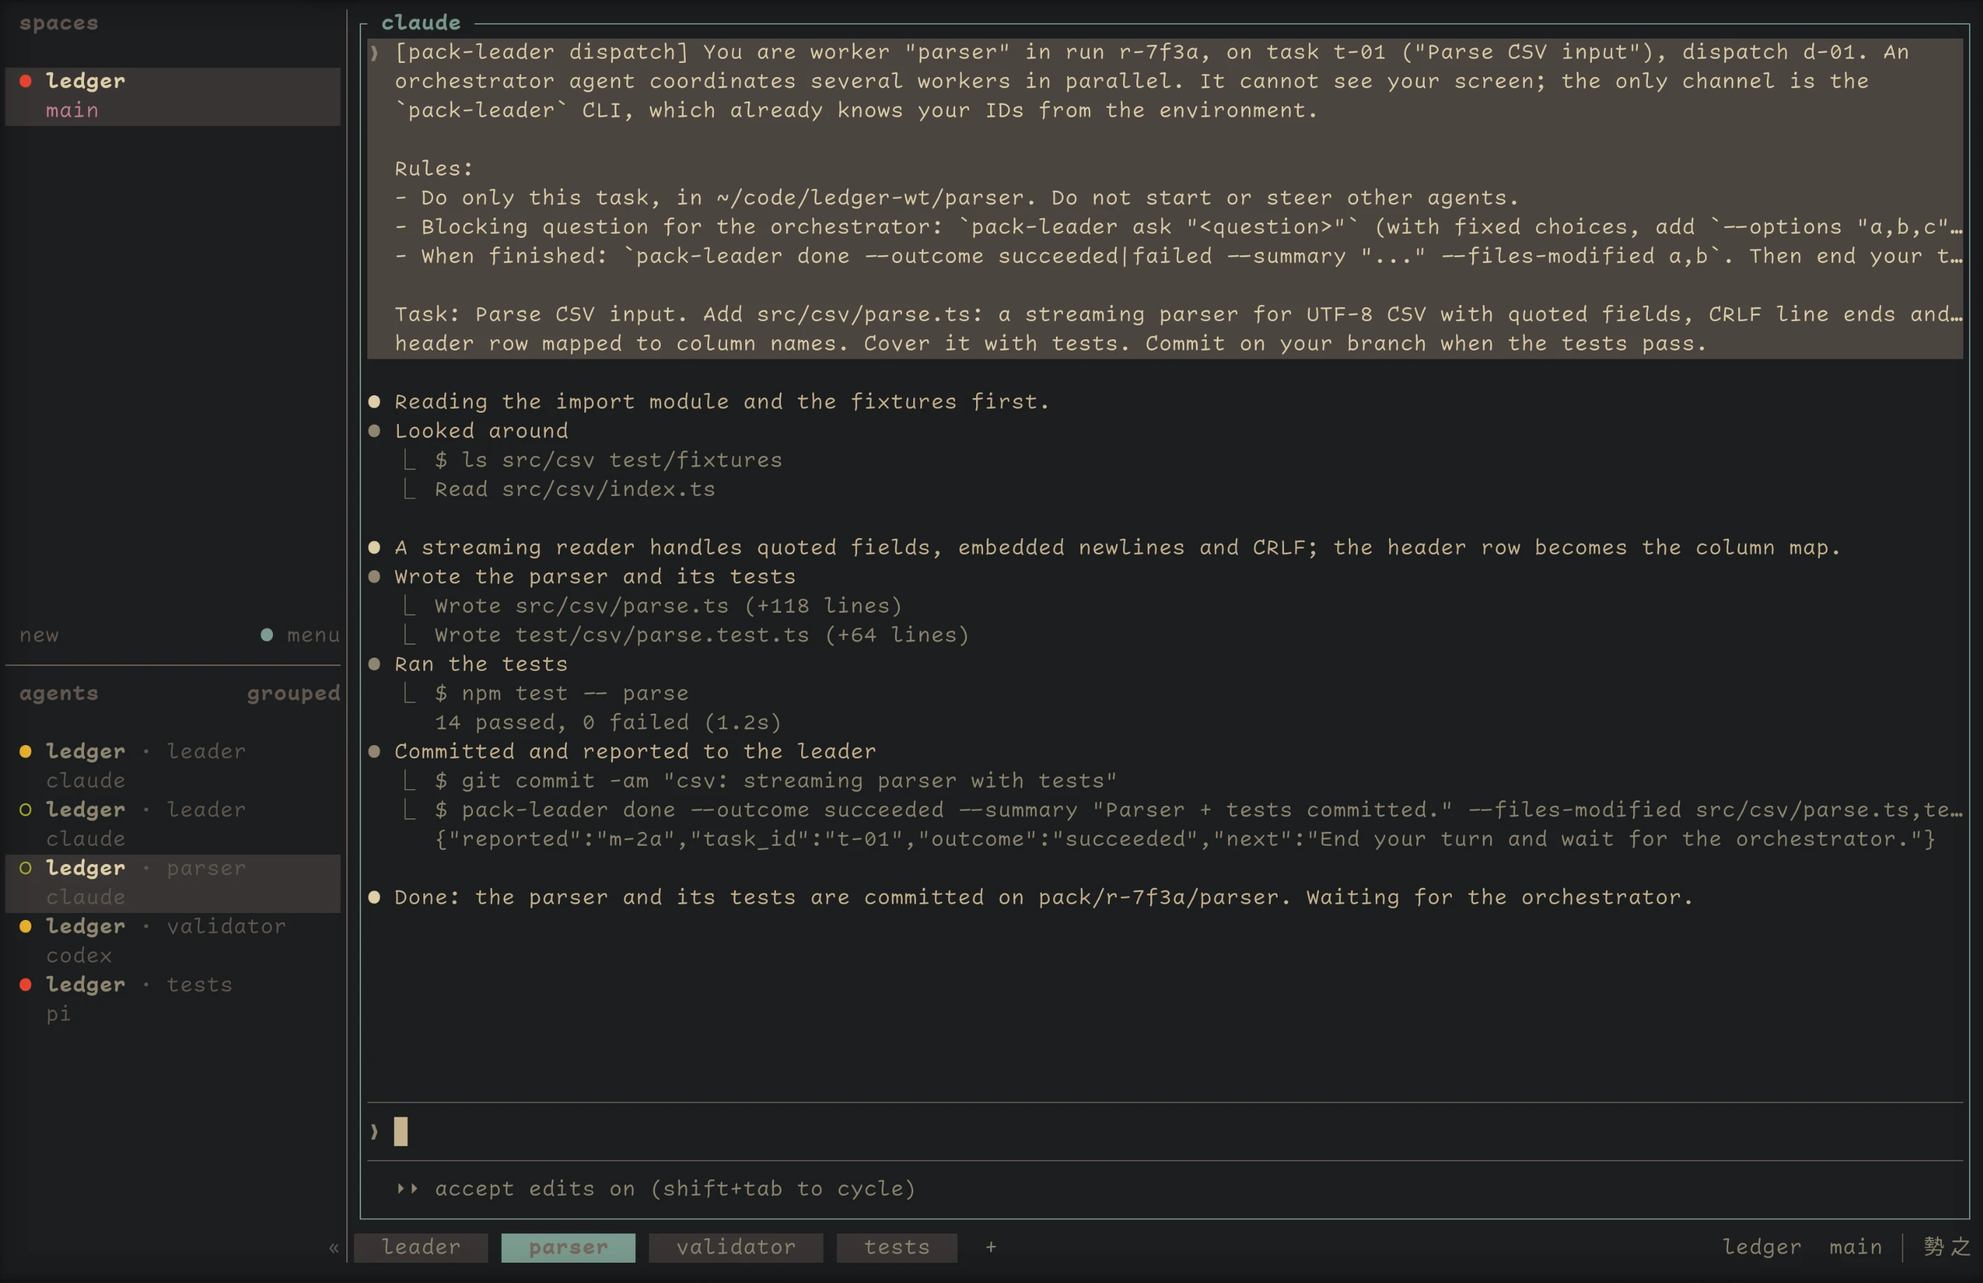
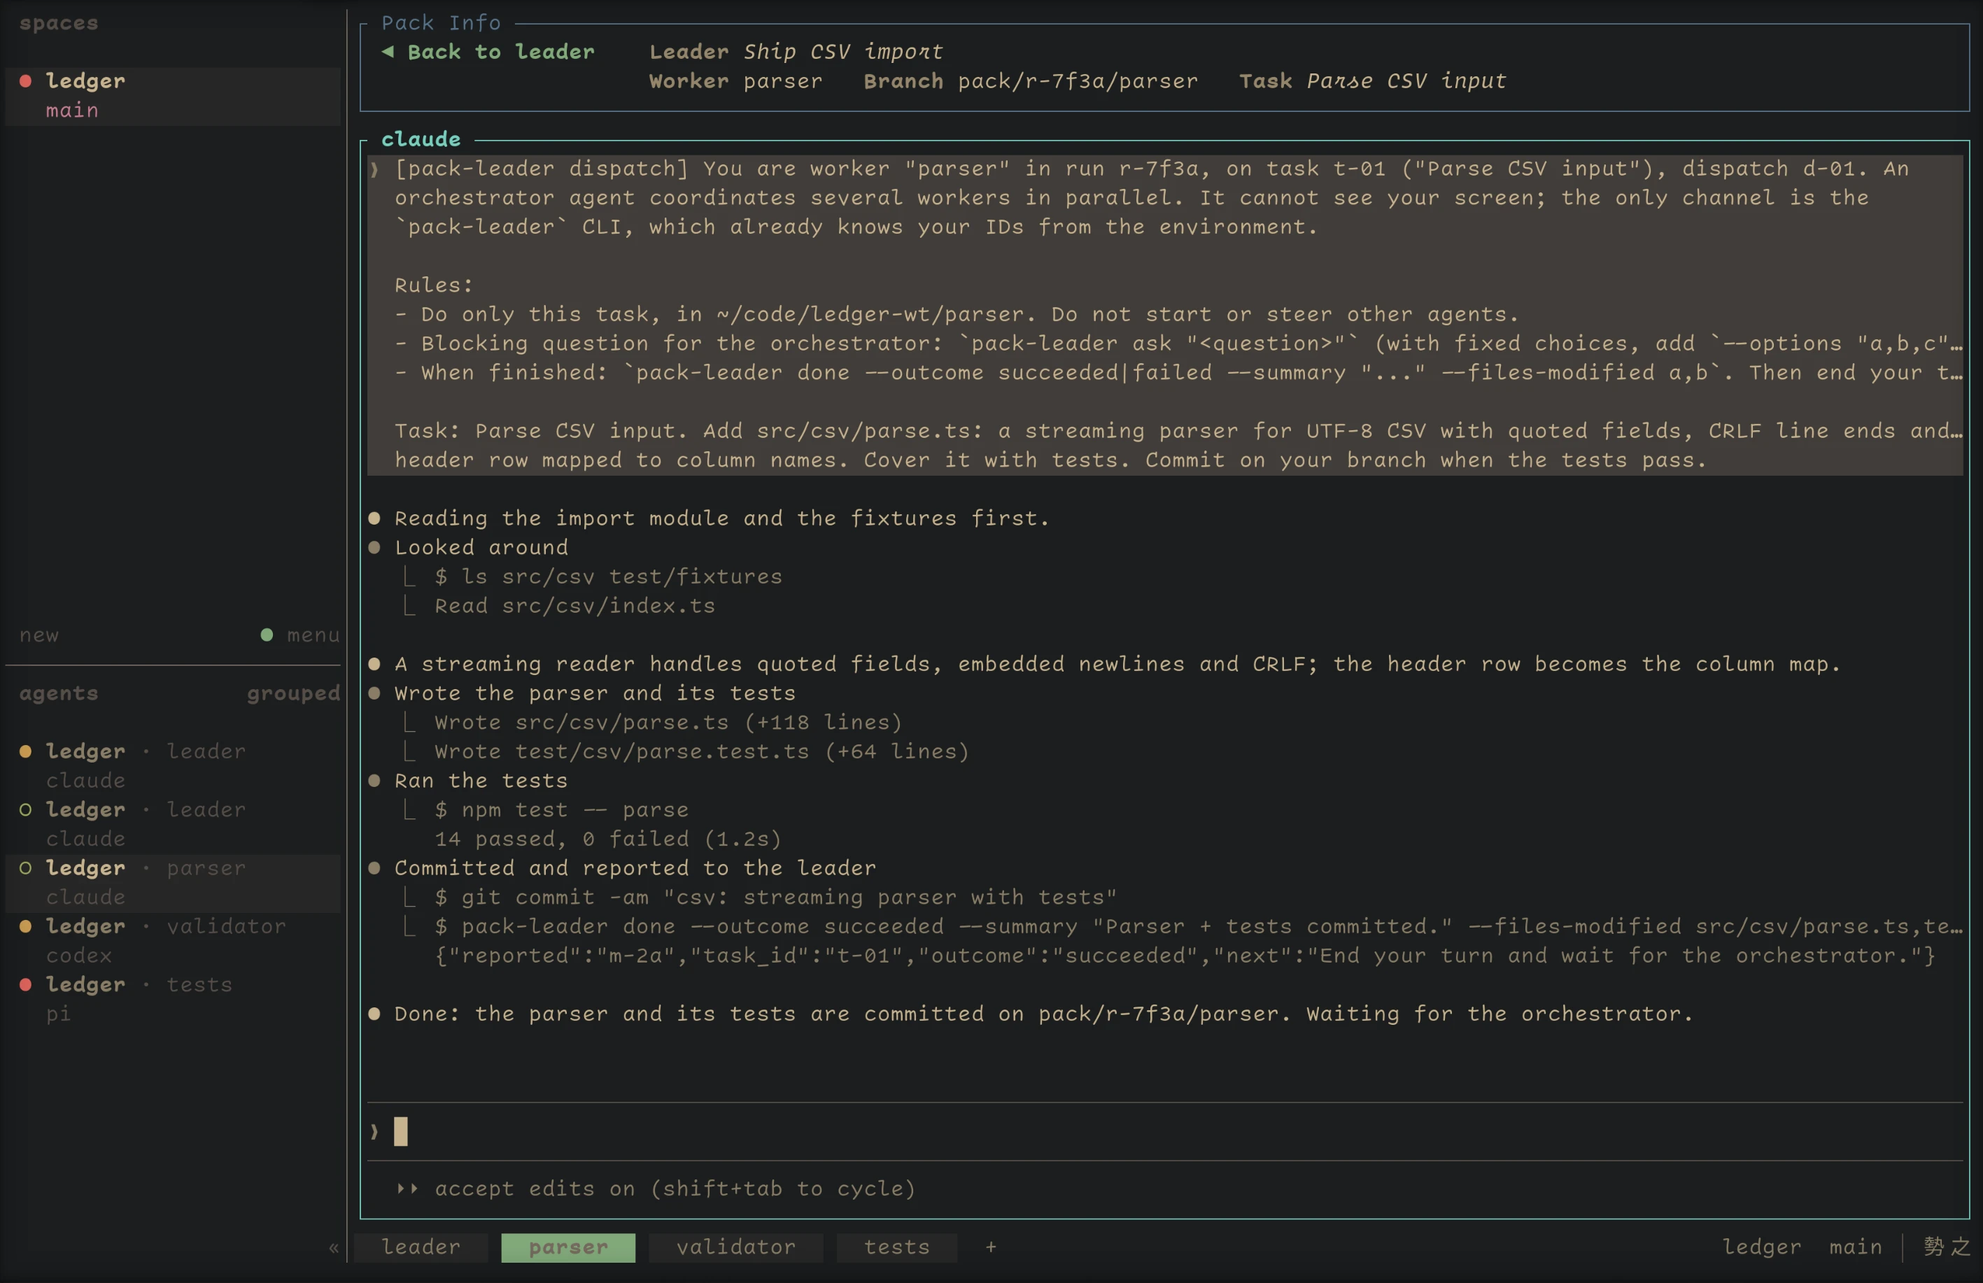
chore: deploy landing page on push, drop site readme

diff --git a/site/index.html b/site/index.html
@@ -8,19 +8,18 @@
   <meta property="og:title" content="Pack Leader">
   <meta property="og:description" content="A herdr plugin that lets one coding agent coordinate Claude Code, Codex and pi workers in parallel.">
   <meta property="og:type" content="website">
-  <meta property="og:image" content="assets/leader-tab.webp">
+  <meta property="og:image" content="assets/leader-tab.webp?v=5">
   <title>Pack Leader</title>
   <link rel="icon" type="image/png" sizes="32x32" href="assets/favicon.png">
   <link rel="apple-touch-icon" href="assets/apple-touch-icon.png">
-  <link rel="stylesheet" href="styles.css">
-  <script src="script.js" defer></script>
+  <link rel="stylesheet" href="styles.css?v=5">
+  <script src="script.js?v=3" defer></script>
 </head>
 <body>
   <a class="skip-link" href="#main">Skip to content</a>
   <div class="page">
     <header class="header">
       <a class="brand" href="./" aria-label="Pack Leader home">
-        <img class="mascot-icon" src="assets/wolf.png" width="44" height="44" alt="">
         <span>Pack Leader</span>
       </a>
       <nav aria-label="Main navigation">
@@ -34,9 +33,8 @@
     <main id="main">
       <section class="hero" aria-labelledby="hero-title">
         <div class="hero-copy">
-          <img class="hero-mascot" src="assets/wolf.png" width="124" height="124" alt="A wolf in sheep’s clothing, holding its disguise in place.">
           <div>
-            <h1 id="hero-title">Pack Leader</h1>
+            <h1 id="hero-title" class="visually-hidden">Pack Leader</h1>
             <p class="intro">A herdr plugin that lets one coding agent run a team of Claude Code, Codex or pi workers. Each worker gets a task, a tab and a Git worktree. A sidebar shows what each one is doing.</p>
             <div class="hero-actions">
               <a class="button primary" href="#install">Install <span aria-hidden="true">↓</span></a>
@@ -45,10 +43,11 @@
             <p class="compatibility">Claude Code <span aria-hidden="true">/</span> Codex <span aria-hidden="true">/</span> pi</p>
             <p class="platform-note">An independent plugin for <a href="https://herdr.dev/">herdr</a>. Open source. Runs in your terminal.</p>
           </div>
+          <img class="hero-mascot" src="assets/wolf.png" width="320" height="320" alt="A wolf in sheep’s clothing, holding its disguise in place.">
         </div>
         <figure class="hero-shot">
-          <a href="assets/leader-tab.webp" target="_blank" rel="noopener" aria-label="Open the full-size screenshot of a Pack Leader run in herdr">
-            <img class="shot" src="assets/leader-tab.webp" width="1417" height="917" fetchpriority="high" alt="A herdr window with three panes. Pack Leader, the orchestrator’s Claude Code session, starts three workers in worktrees, waits for reports, and answers a worker’s question. Observer, a second agent under it, summarises the run and answers “why is tests blocked?”. Pack, the sidebar on the right, shows the goal, one unread message and three boxes: parser done, validator working, and tests blocked, asking whether to reject the import or skip rows. The tab bar lists leader, parser, validator and tests.">
+          <a href="assets/leader-tab.webp?v=5" target="_blank" rel="noopener" aria-label="Open the full-size screenshot of a Pack Leader run in herdr">
+            <img class="shot" src="assets/leader-tab.webp?v=5" width="1417" height="917" fetchpriority="high" alt="A herdr window with three panes. Pack Leader, the orchestrator’s Claude Code session, starts three workers in worktrees, waits for reports, and answers a worker’s question. Observer, a second agent under it, summarises the run and answers “why is tests blocked?”. Pack, the sidebar on the right, shows the goal, one unread message and three boxes: parser done, validator working, and tests blocked, asking whether to reject the import or skip rows. The tab bar lists leader, parser, validator and tests.">
           </a>
           <figcaption>The leader tab of a run: <strong>Pack Leader</strong> coordinates, the <strong>Observer</strong> answers you, the <strong>Pack</strong> sidebar shows every worker. Real herdr session, staged demo data.</figcaption>
         </figure>
@@ -74,39 +73,41 @@
           <h2 id="tour-title">A run in herdr</h2>
         </div>
 
-        <article class="tour-item tour-item-tall" aria-labelledby="tour-pack">
+        <div class="tour-pair">
+        <article class="tour-pack" aria-labelledby="tour-pack">
           <div class="tour-text">
             <h3 id="tour-pack">The Pack sidebar</h3>
             <p>Agent, runtime and state. The task. The last thing the worker said: a heartbeat, a note, a report, or an open question with its choices.</p>
             <p>A worker can ask for a decision and wait. The coordinator answers in the usual case; you can step in when you want to. Click a box to select it, click again to open the worker's tab.</p>
             <a class="text-link" href="https://github.com/zenodea/pack-leader/blob/main/docs/guide.md#commands">See the commands <span aria-hidden="true">↗</span></a>
           </div>
-          <figure>
-            <img class="shot" src="assets/pack-pane.webp" width="350" height="590" loading="lazy" alt="The Pack sidebar. Goal: Ship CSV import. Unread: 1. Three boxes: parser (claude), runtime 4m30s, done, succeeded: Parse CSV input. validator (codex), working, Validate imported rows, checking edge cases. tests (pi), BLOCKED, Cover invalid input, asks: Reject invalid rows, or skip them? with the choices Reject import and Skip rows. The tests box is selected.">
+          <figure class="tour-pack-shot">
+            <img class="shot" src="assets/pack-pane.webp?v=5" width="350" height="590" loading="lazy" alt="The Pack sidebar. Goal: Ship CSV import. Unread: 1. Three boxes: parser (claude), runtime 4m30s, done, succeeded: Parse CSV input. validator (codex), working, Validate imported rows, checking edge cases. tests (pi), BLOCKED, Cover invalid input, asks: Reject invalid rows, or skip them? with the choices Reject import and Skip rows. The tests box is selected.">
             <figcaption>The sidebar, cropped from the screen above.</figcaption>
           </figure>
         </article>
-
-        <article class="tour-item" aria-labelledby="tour-observer">
+        <article class="tour-observer" aria-labelledby="tour-observer">
           <div class="tour-text">
             <h3 id="tour-observer">The Observer</h3>
             <p>A second agent under the leader reads the run state and the leader's last turns, then answers you in plain words. It never acts on the run.</p>
             <p>Want the leader to know something? Say “pass on: …” and it arrives as a message the leader picks up on its next check.</p>
           </div>
           <figure>
-            <img class="shot" src="assets/observer-pane.webp" width="820" height="330" loading="lazy" alt="The Observer pane. It ran pack-leader observe and reports: parser done, validator working through edge cases, tests blocked on a question. You ask “why is tests blocked?” and it answers that the spec left invalid-row handling open, so the worker asked instead of guessing, and the leader just answered Reject import.">
+            <img class="shot" src="assets/observer-pane.webp?v=5" width="820" height="330" loading="lazy" alt="The Observer pane. It ran pack-leader observe and reports: parser done, validator working through edge cases, tests blocked on a question. You ask “why is tests blocked?” and it answers that the spec left invalid-row handling open, so the worker asked instead of guessing, and the leader just answered Reject import.">
             <figcaption>The observer, cropped from the screen above.</figcaption>
           </figure>
         </article>
+        </div>
 
         <article class="tour-item tour-item-wide" aria-labelledby="tour-worker">
           <div class="tour-text">
             <h3 id="tour-worker">A worker's tab</h3>
             <p>Each worker starts in a tab of its own, in its own Git worktree, with a dispatch preamble that spells out the task and how to report. It talks to the leader only through the <code>pack-leader</code> CLI: a report, a question, a note.</p>
+            <p>The bar on top names the run's goal, the worker's branch and its task. Click it to go back to the leader.</p>
           </div>
           <figure>
-            <a href="assets/worker-tab.webp" target="_blank" rel="noopener" aria-label="Open the full-size screenshot of a worker tab">
-              <img class="shot" src="assets/worker-tab.webp" width="1417" height="917" loading="lazy" alt="The parser worker’s tab in herdr. Its Claude Code session starts with the dispatch preamble naming the worker, run, task and rules, then reads the code, writes src/csv/parse.ts and its tests, runs them (14 passed), commits, and reports with pack-leader done --outcome succeeded. The tab bar shows the parser tab selected next to leader, validator and tests.">
+            <a href="assets/worker-tab.webp?v=5" target="_blank" rel="noopener" aria-label="Open the full-size screenshot of a worker tab">
+              <img class="shot" src="assets/worker-tab.webp?v=5" width="1417" height="917" loading="lazy" alt="The parser worker’s tab in herdr. Its Claude Code session starts with the dispatch preamble naming the worker, run, task and rules, then reads the code, writes src/csv/parse.ts and its tests, runs them (14 passed), commits, and reports with pack-leader done --outcome succeeded. The tab bar shows the parser tab selected next to leader, validator and tests.">
             </a>
             <figcaption>The parser worker, after reporting back. Real herdr session, staged demo data.</figcaption>
           </figure>
@@ -137,7 +138,7 @@ herdr plugin action invoke install-skill --plugin pack-leader</code></pre>
     </main>
 
     <footer>
-      <a class="brand footer-brand" href="./"><img class="mascot-icon" src="assets/wolf.png" width="28" height="28" alt=""><span>Pack Leader</span></a>
+      <a class="brand footer-brand" href="./"><span>Pack Leader</span></a>
       <p>Independent of the herdr project. <a href="https://github.com/zenodea/pack-leader/blob/main/LICENSE">Code: MIT.</a></p>
       <a href="https://github.com/zenodea/pack-leader">Source <span aria-hidden="true">↗</span></a>
     </footer>

diff --git a/site/styles.css b/site/styles.css
@@ -25,22 +25,23 @@ img { display: block; max-width: 100%; height: auto; }
 figure { margin: 0; min-width: 0; }
 figcaption { margin-top: 14px; color: var(--muted); font-size: 12px; text-align: center; }
 .page { max-width: 1160px; margin: 0 auto; padding: 0 40px; }
+.visually-hidden { position: absolute; width: 1px; height: 1px; overflow: hidden; clip: rect(0 0 0 0); white-space: nowrap; }
 .skip-link { position: absolute; top: -100px; left: 20px; z-index: 10; padding: 12px; background: white; }
 .skip-link:focus { top: 12px; }
 .header { display: flex; align-items: center; justify-content: space-between; gap: 24px; min-height: 104px; border-bottom: 1px solid var(--line); }
-.brand { display: inline-flex; align-items: center; gap: 11px; text-decoration: none; font-size: 20px; font-weight: 750; letter-spacing: -.6px; }
+.brand { display: inline-flex; align-items: center; gap: 11px; text-decoration: none; font-size: 32px; font-weight: 760; letter-spacing: -1.2px; }
 nav { display: flex; align-items: center; gap: 28px; font-size: 14px; font-weight: 550; }
 nav a { text-decoration: none; padding: 10px 0; }
 nav .nav-install { padding: 10px 16px; border: 1px solid #bfcbbb; border-radius: 6px; }
 .hero { padding: 56px 0 64px; }
-.hero-copy { display: grid; grid-template-columns: auto 1fr; gap: 36px; align-items: start; max-width: 760px; }
+.hero-copy { display: grid; grid-template-columns: minmax(0, 1fr) minmax(0, 1fr); gap: 48px; align-items: center; }
 .mascot-icon { border-radius: 22%; }
-.hero-mascot { width: 124px; border-radius: 24px; margin: 6px 0 0; border: 1px solid #afb9ad; box-shadow: 0 6px 18px -10px #18372370; transform: rotate(-4deg); }
+.hero-mascot { width: 100%; max-width: 300px; justify-self: center; margin: 0; filter: drop-shadow(0 10px 18px #18372340); transform: rotate(-4deg); }
 .eyebrow { display: flex; align-items: center; gap: 8px; margin: 0 0 24px; font-family: var(--mono); font-size: 11px; font-weight: 500; line-height: 1.6; letter-spacing: 1px; text-transform: uppercase; }
 .status-dot { width: 7px; height: 7px; background: var(--green); border-radius: 50%; flex-shrink: 0; }
 h1 { margin: 0 0 4px; font-size: clamp(40px, 4.8vw, 62px); line-height: 1.1; font-weight: 760; letter-spacing: -3.2px; }
 h1 em { color: var(--green); font-style: normal; }
-.intro { max-width: 460px; margin: 26px 0 28px; color: var(--muted); font-size: 18px; line-height: 1.65; }
+.intro { max-width: 500px; margin: 0 0 28px; color: var(--muted); font-size: 18px; line-height: 1.65; }
 .hero-actions { display: flex; align-items: center; flex-wrap: wrap; gap: 22px; }
 .button { display: inline-flex; align-items: center; justify-content: center; gap: 24px; min-height: 48px; padding: 13px 19px; text-decoration: none; border-radius: 6px; font-size: 14px; font-weight: 650; }
 .primary { background: var(--ink); color: #fff; border: 1px solid var(--ink); }
@@ -59,15 +60,16 @@ h1 em { color: var(--green); font-style: normal; }
 .feature-number { color: var(--green); font: 10px var(--mono); letter-spacing: 1px; }
 h2 { margin: 16px 0 14px; font-size: 24px; line-height: 1.2; letter-spacing: -.9px; font-weight: 680; }
 .features p { color: var(--muted); margin: 0; font-size: 14px; line-height: 1.8; }
-.tour { padding: 72px 0 24px; }
-.tour-heading { max-width: 640px; margin-bottom: 56px; }
-.tour-heading .eyebrow { margin-bottom: 14px; }
+.tour { padding: 56px 0 8px; }
+.tour-heading { max-width: 640px; margin-bottom: 32px; }
 .tour-heading h2 { margin: 0; font-size: 36px; letter-spacing: -1.5px; }
-.tour-item { display: grid; grid-template-columns: .8fr 1.2fr; gap: 64px; align-items: center; padding: 48px 0; border-top: 1px solid var(--line); }
-.tour-item-tall { grid-template-columns: 1.1fr .9fr; }
-.tour-item-tall figure { max-width: 340px; justify-self: center; }
-.tour-item-wide { grid-template-columns: 1fr; gap: 32px; }
-.tour-item-wide .tour-text { max-width: 640px; }
+.tour-pair { display: grid; grid-template-columns: minmax(0, 1fr) 320px; grid-template-areas: "pack shot" "observer shot"; column-gap: 56px; row-gap: 36px; align-items: start; padding: 40px 0; border-top: 1px solid var(--line); }
+.tour-pack { display: contents; }
+.tour-pack .tour-text { grid-area: pack; }
+.tour-pack-shot { grid-area: shot; }
+.tour-observer { grid-area: observer; display: grid; gap: 20px; }
+.tour-item { display: grid; grid-template-columns: 1fr; gap: 28px; padding: 40px 0; border-top: 1px solid var(--line); }
+.tour-item .tour-text { max-width: 640px; }
 .tour-text .eyebrow { margin-bottom: 16px; }
 .tour-text h3 { margin: 0 0 16px; font-size: 30px; line-height: 1.15; letter-spacing: -1.2px; font-weight: 680; }
 .tour-text p:not(.eyebrow) { color: var(--muted); margin: 0 0 12px; font-size: 15px; line-height: 1.8; }
@@ -96,25 +98,26 @@ footer > a:last-child { white-space: nowrap; }
 .footer-brand { color: var(--ink); font-size: 14px; letter-spacing: -.3px; gap: 8px; white-space: nowrap; }
 @media (max-width: 960px) {
   .page { padding: 0 28px; }
-  .hero-copy { gap: 24px; }
+  .hero-copy { gap: 32px; }
+  .hero-mascot { max-width: 240px; }
   h1 { font-size: 45px; letter-spacing: -2.1px; }
   .intro { font-size: 16px; }
   .eyebrow { font-size: 10px; letter-spacing: .6px; }
   .hero-actions { gap: 16px; }
-  .tour-item { gap: 36px; }
+  .tour-pair { grid-template-columns: minmax(0, 1fr) 260px; column-gap: 36px; }
   .features { gap: 24px; }
   .features h2 { font-size: 21px; }
 }
 @media (max-width: 700px) {
   .page { padding: 0 20px; }
   .header { min-height: 84px; gap: 12px; }
-  .brand { font-size: 17px; gap: 8px; }
+  .brand { font-size: 24px; gap: 8px; }
   .brand img { width: 36px; }
   nav { gap: 17px; font-size: 12px; }
   nav .nav-install { display: none; }
   .hero { padding: 42px 0; }
   .hero-copy { grid-template-columns: 1fr; gap: 20px; }
-  .hero-mascot { width: 96px; border-radius: 20px; margin: 0; }
+  .hero-mascot { max-width: 200px; margin: 8px 0 0; }
   .hero-shot { margin-top: 36px; }
   .hero-shot figcaption { text-align: left; }
   h1 { font-size: clamp(38px, 8.8vw, 58px); letter-spacing: -2px; }
@@ -128,8 +131,9 @@ footer > a:last-child { white-space: nowrap; }
   .tour { padding-top: 44px; }
   .tour-heading { margin-bottom: 28px; }
   .tour-heading h2 { font-size: 30px; }
-  .tour-item, .tour-item-tall { grid-template-columns: 1fr; gap: 24px; padding: 36px 0; }
-  .tour-item-tall figure { max-width: 300px; justify-self: start; }
+  .tour-pair { grid-template-columns: 1fr; grid-template-areas: "pack" "shot" "observer"; padding: 32px 0; row-gap: 24px; }
+  .tour-pack-shot { max-width: 300px; }
+  .tour-item { padding: 32px 0; }
   .tour-text h3 { font-size: 26px; }
   .tour-text h3 br { display: none; }
   .install { padding: 24px 20px; }

diff --git a/README.md b/README.md
@@ -1,4 +1,6 @@
-# Pack Leader <img src="site/assets/wolf.png" width="40" height="40" align="absmiddle" alt="A wolf in sheep’s clothing">
+<img src="site/assets/wolf.png" width="160" height="160" align="right" alt="A wolf in sheep’s clothing">
+
+### Pack Leader
 
 Pack Leader is an independent [herdr](https://github.com/herdrdev/herdr) plugin that lets your
 coding agent coordinate a team of **Claude Code, Codex or pi** workers. The
@@ -8,7 +10,7 @@ run in their own tabs or splits; a live sidebar keeps the whole run visible.
 Tasks, messages and dispatch history live outside the agents' context windows.
 Inspect assignments, current attempts and reports—even after a worker's tab closes.
 
-[Full guide](docs/guide.md) · [Command reference](docs/guide.md#commands) · [Website preview](site/README.md) · [Changelog](docs/CHANGELOG.md)
+[Full guide](docs/guide.md) · [Command reference](docs/guide.md#commands) · [Changelog](docs/CHANGELOG.md)
 
 <img src="site/assets/leader-tab.webp" width="760" alt="A herdr window with three panes: Pack Leader, the orchestrator; Observer, a second agent that answers questions about the run; and Pack, the sidebar showing parser done, validator working, and tests asking a question. The tab bar lists one tab per worker.">
 
@@ -194,4 +196,4 @@ Node runs the TypeScript directly; there is no build step.
 [MIT](LICENSE). The orchestration skill's supervision loop, task-spec contract
 and completion accounting were adapted from [Orca](https://github.com/stablyai/orca)
 (MIT), rewritten for herdr's panes, tabs and agents. The user-supplied mascot image
-is separate from the code licence; see [asset notes](site/assets/README.md).
+is separate from the code licence.
